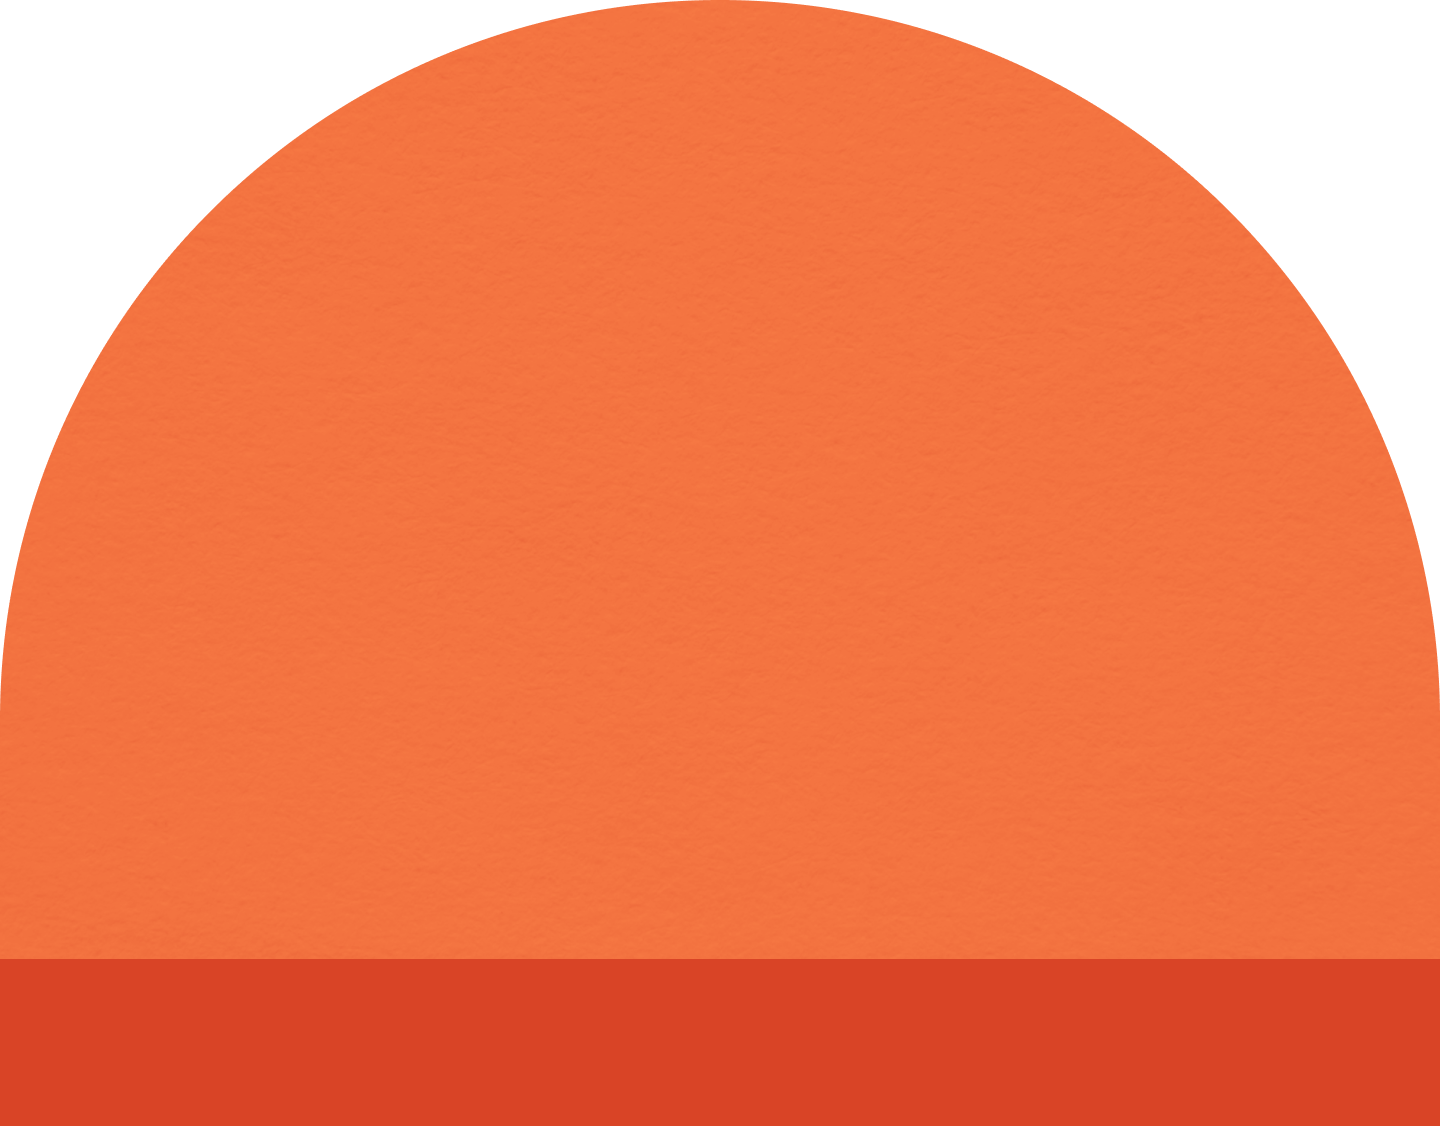
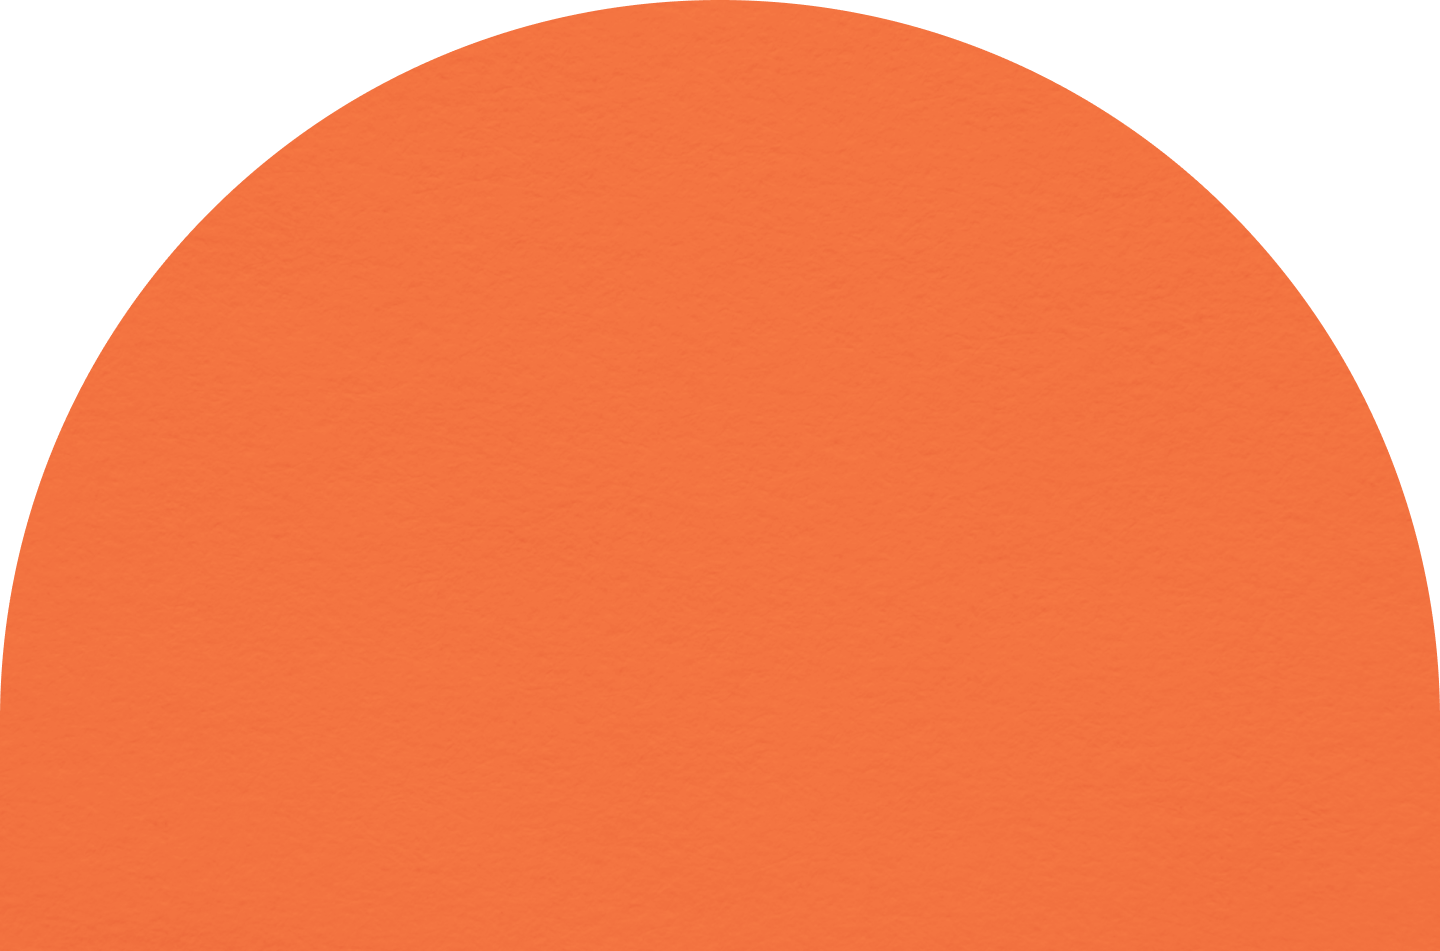
brownWave

diff --git a/src/sections/Sugarcoating.js b/src/sections/Sugarcoating.js
@@ -36,7 +36,7 @@ import vectorImg5 from "../../public/img/home/vector_img_5.png";
 import vectorImg6 from "../../public/img/home/vector_img_6.png";
 import bgLine from "../../public/img/banner/bg_line.png";
 import transBg from "../../public/img/home/trans_bg.png";
-import brownWave from "../../public/img/home/brown_wave.png";
+// import brownWave from "../../public/img/home/brown_wave.png";
 import mobileProduct from "../../public/img/home/mobile_product.png";
 import mobileMarquee from "../../public/img/home/mobile_marquee.png";
 import transBgMobile from "../../public/img/home/transBgMobile.png";
@@ -1391,11 +1391,11 @@ export default function Sugarcoating({ gsap, ScrollTrigger }) {
 				</div>
 			</div>
 			<div className={`${styles.wave_bgg}`}>
-				<img
+				{/* <img
 					src={brownWave.src}
 					className={`${styles.Waves} width_100`}
 					alt="Wave"
-				/>
+				/> */}
 				{/* <div ref={Wave2}></div> */}
 			</div>
 		</section>
